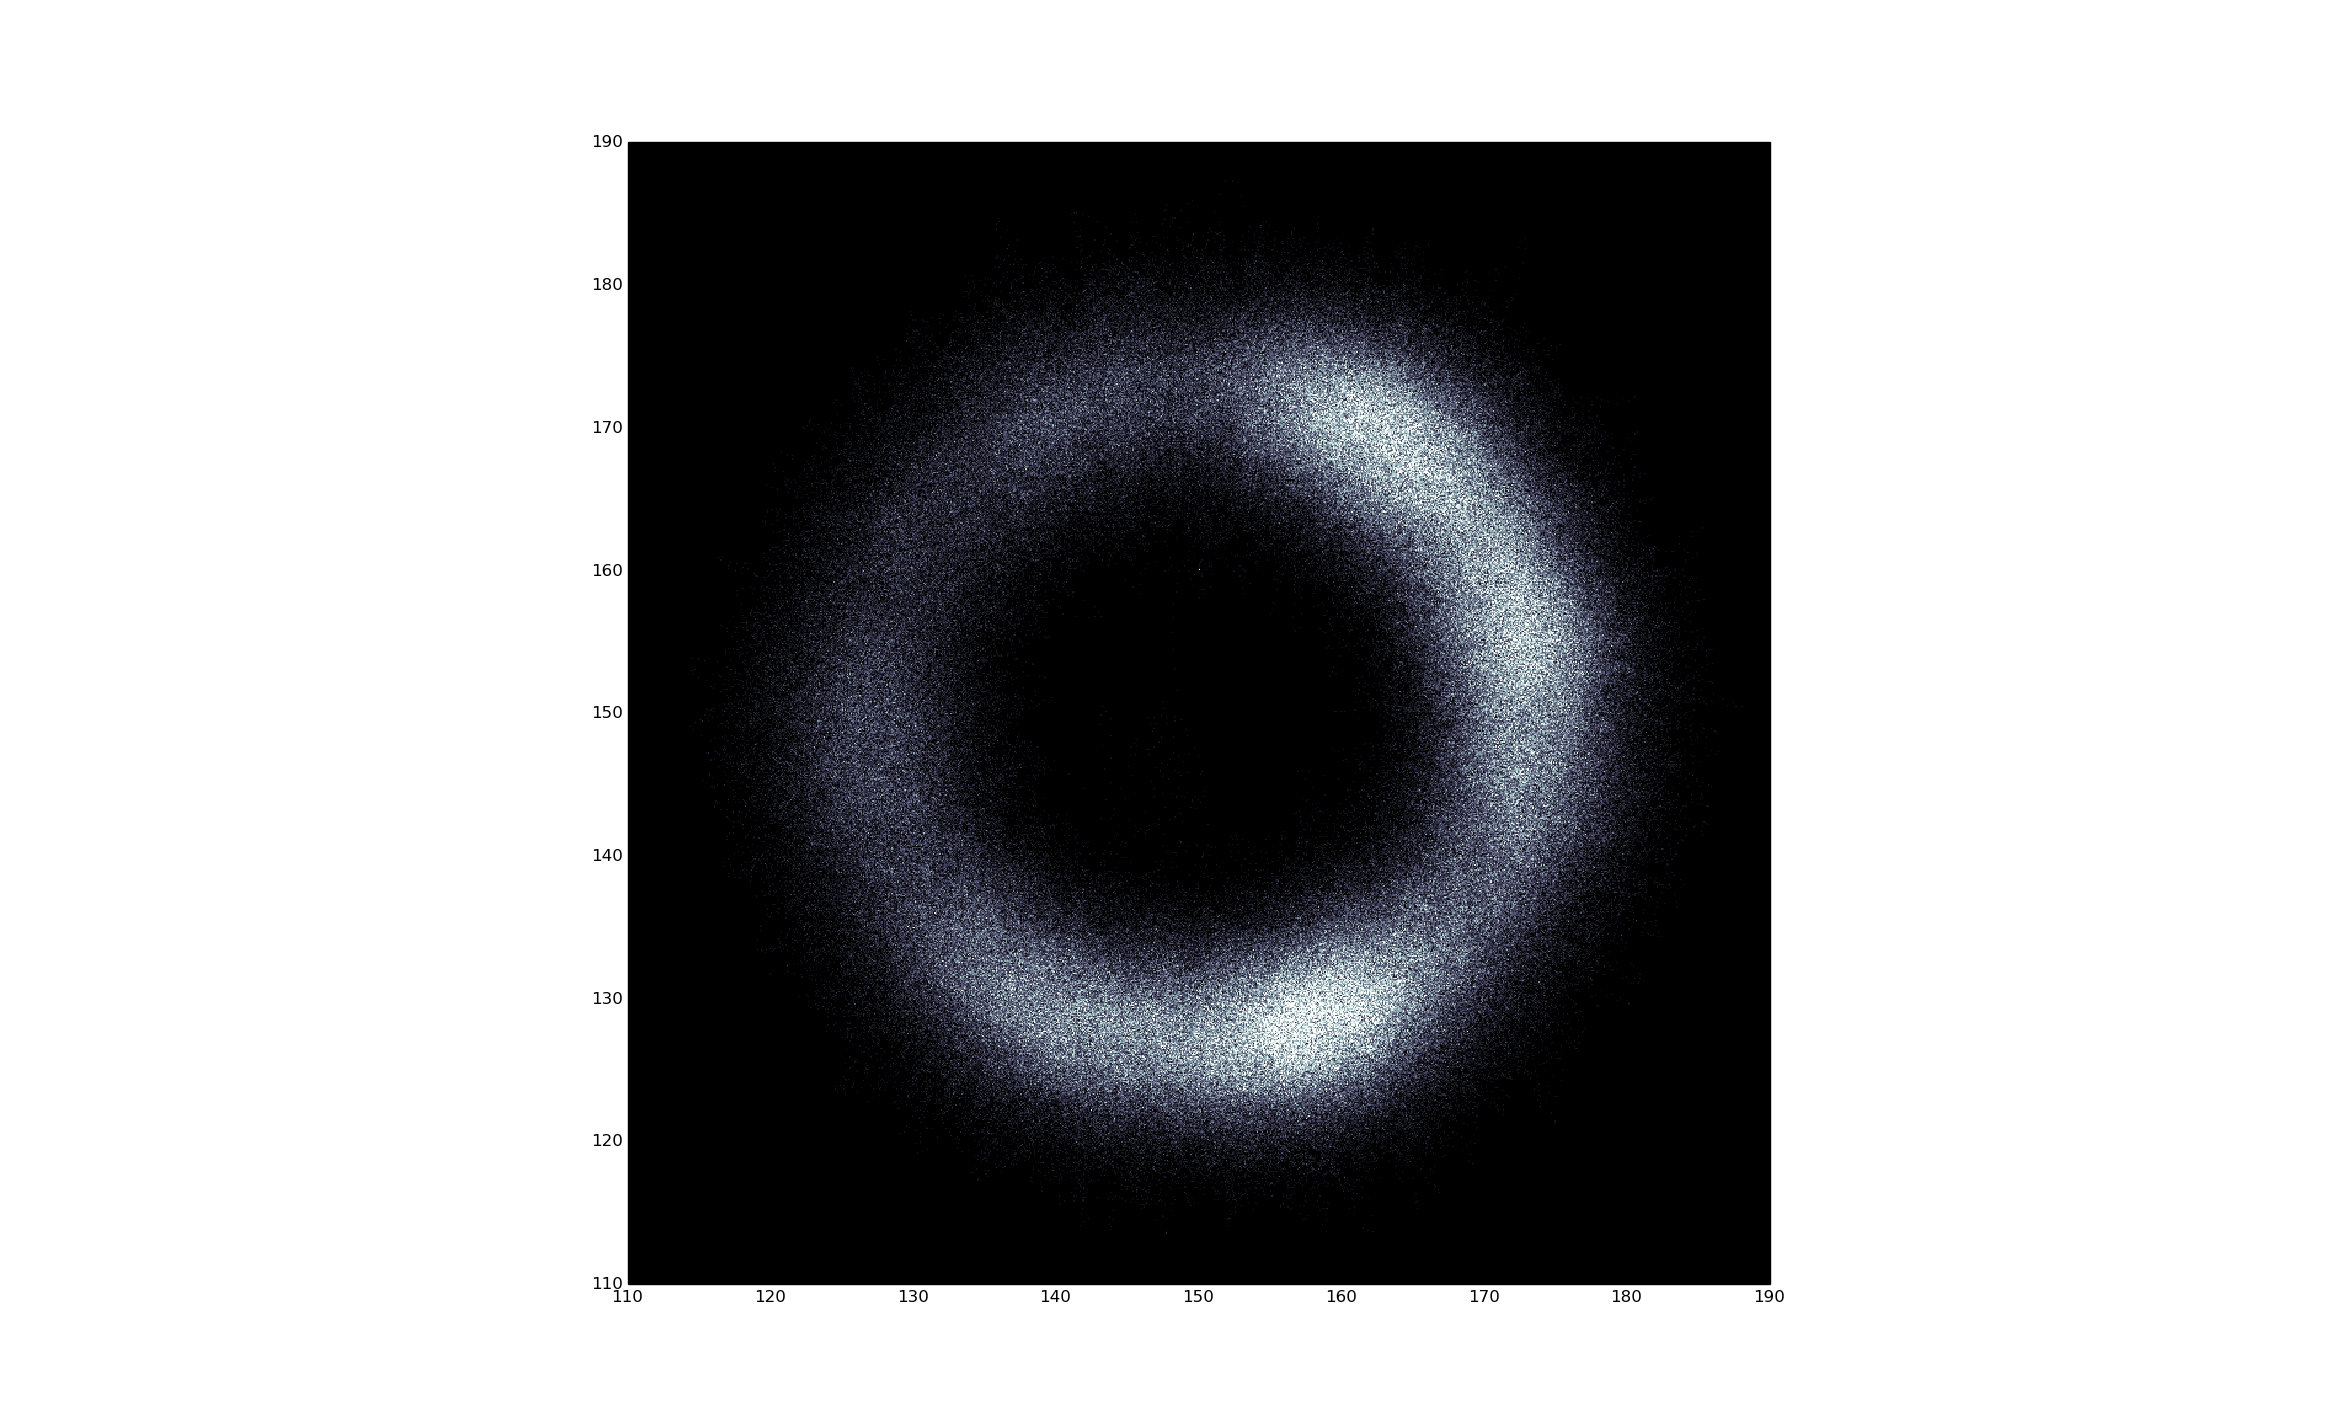
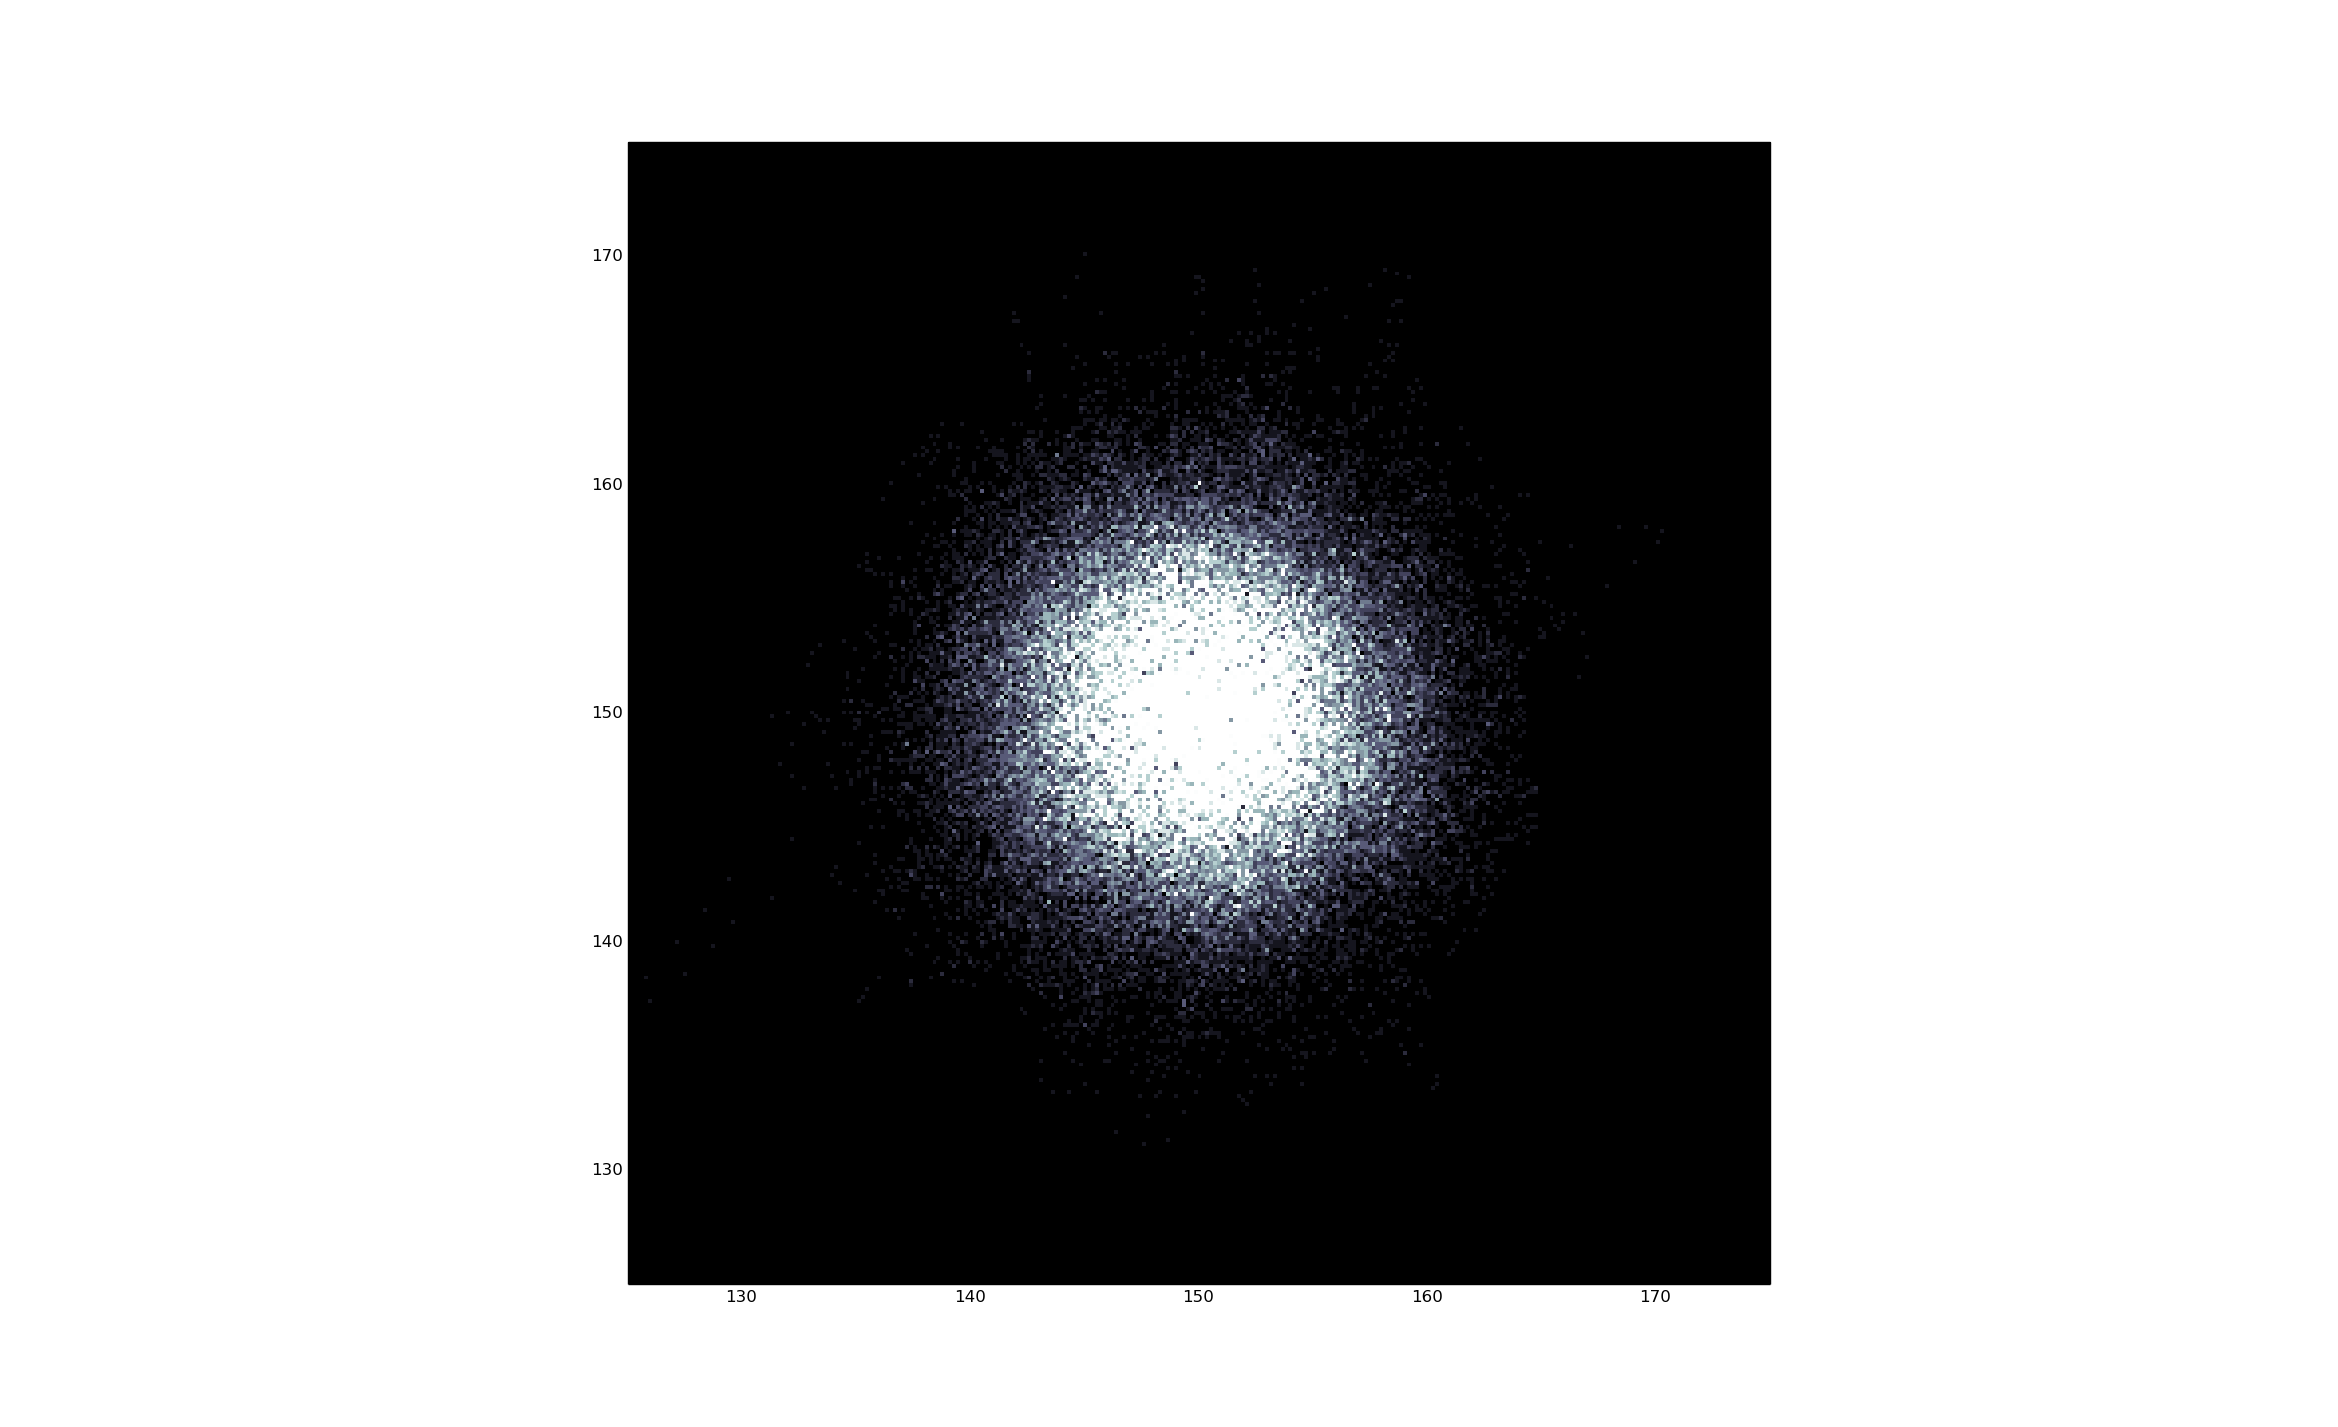
Same system, membrane radius: 52

Changed region(s): [[0.3122, 0.185, 0.7181, 0.8325]]

diff --git a/main.py b/main.py
@@ -160,7 +160,7 @@ if __name__ == '__main__':
     runner.set_a_ball_mass(a_ball_mass)
 
     # Membrane size
-    sheet_radius    = 78
+    sheet_radius    = 52
     runner.set_sheet_radius(sheet_radius)
 
     # Ball starting postion
